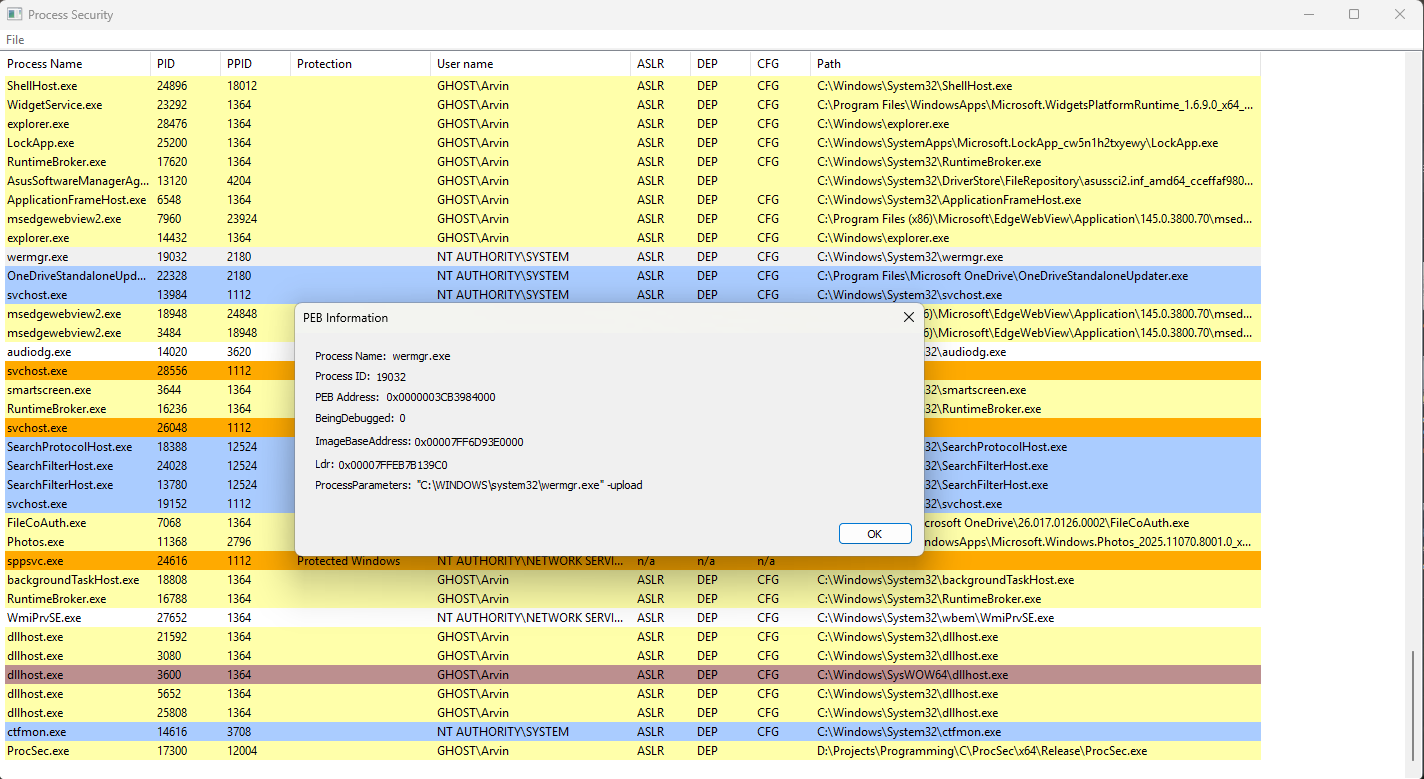
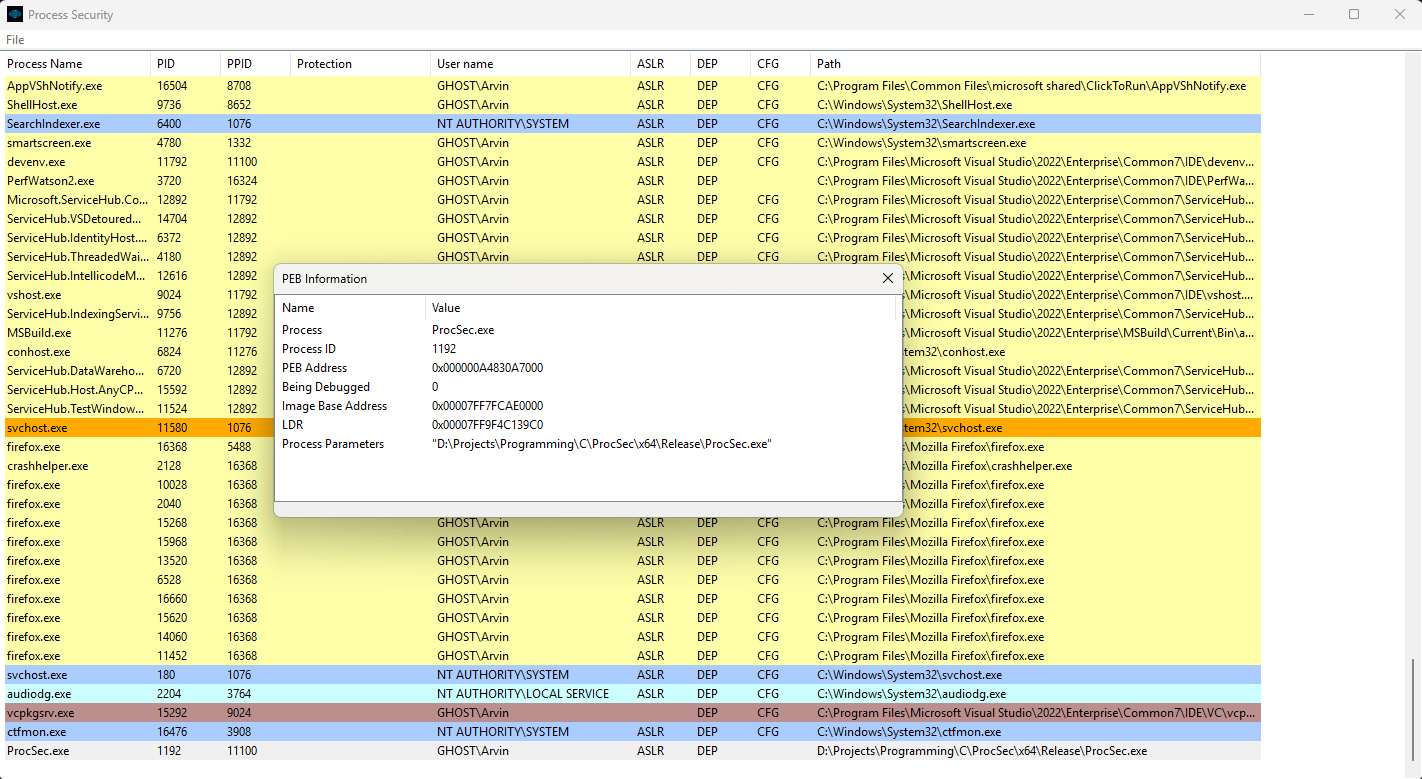
Convert PEB dialog to list view

diff --git a/ProcSec/main.cpp b/ProcSec/main.cpp
@@ -201,22 +201,47 @@ INT_PTR CALLBACK PEBDialog(HWND hDlg, UINT message, WPARAM wParam, LPARAM lParam
 	switch (message)
 	{
 	case WM_INITDIALOG: {
-		WCHAR pId[16] = { 0 }, pName[MAX_PATH] = { 0 };
 
+		/**********************************************************************************************/
+		// Initialize List View
+
+		RECT rc;
+		::GetClientRect(hDlg, &rc);
+		TabCtrl_AdjustRect(hDlg, FALSE, &rc);
+
+		::InitCommonControls();
+
+		HWND hPebDialog = ::CreateWindowExW(0, L"STATIC", L"", WS_CHILD | WS_VISIBLE,
+			rc.left, rc.top, rc.right - rc.left, rc.bottom - rc.top, hDlg, 0, g_hInst, 0);
+
+		HWND hTabListView = ::CreateWindowExW(WS_EX_CLIENTEDGE, WC_LISTVIEW, L"", WS_CHILD | WS_VISIBLE | LVS_REPORT,
+			0, 0, rc.right, rc.bottom - 15, hPebDialog, 0, 0, 0);
+
+		ListView_SetExtendedListViewStyle(hTabListView, LVS_EX_FULLROWSELECT | LVS_EX_DOUBLEBUFFER);
+
+		LVCOLUMNW col = { 0 };
+		col.mask = LVCF_TEXT | LVCF_WIDTH;
+
+		col.pszText = const_cast<LPWSTR>(L"Name");
+		col.cx = 150;
+		ListView_InsertColumn(hTabListView, TAB_LV_OPTIONAL_NAME, &col);
+
+		col.pszText = const_cast<LPWSTR>(L"Value");
+		col.cx = 470;
+		ListView_InsertColumn(hTabListView, TAB_LV_OPTIONAL_VALUE, &col);
+
+		/**********************************************************************************************/
+		// Get PEB Info
+
+		WCHAR pId[16] = { 0 }, pName[MAX_PATH] = { 0 };
 		int index = ListView_GetNextItem(g_hList, -1, LVNI_SELECTED);
 
 		ListView_GetItemText(g_hList, index, LV_PID, pId, sizeof(pId));
 		ListView_GetItemText(g_hList, index, LV_PNAME, pName, sizeof(pName));
 
-		GetPebInfo(hDlg, pId, pName);
-
-		break;
+		GetPebInfo(hTabListView, pId, pName);
 	}
-
-	case WM_COMMAND:
-		if (LOWORD(wParam) == IDOK)
-			::EndDialog(hDlg, 0);
-		break;
+	break;
 
 	case WM_CLOSE:
 		::EndDialog(hDlg, 0);
@@ -232,7 +257,7 @@ INT_PTR CALLBACK PEDialog(HWND hDlg, UINT message, WPARAM wParam, LPARAM lParam)
 	switch (message)
 	{
 	case WM_INITDIALOG: {
-		g_hTab= ::GetDlgItem(hDlg, IDC_TAB_PE);
+		g_hTab = ::GetDlgItem(hDlg, IDC_TAB_PE);
 		TCITEMW ti = { 0 };
 		ti.mask = TCIF_TEXT;
 

diff --git a/ProcSec/PEBInformation.cpp b/ProcSec/PEBInformation.cpp
@@ -30,13 +30,47 @@ BOOL GetPebInfo(HWND hDlg, LPWSTR pID, LPWSTR pName)
 		::wsprintfW(pImageBase, L"0x%p", peb.ImageBaseAddress);
 		::wsprintfW(pLdr, L"0x%p", peb.Ldr);
 
-		::SetDlgItemTextW(hDlg, IDC_STATIC_PEB_PNAME, pName);
-		::SetDlgItemTextW(hDlg, IDC_STATIC_PEB_PID, pID);
-		::SetDlgItemTextW(hDlg, IDC_STATIC_PEB, pPEB);
-		::SetDlgItemTextW(hDlg, IDC_STATIC_BEINGDEBUGGED, bBeingDebugged);
-		::SetDlgItemTextW(hDlg, IDC_STATIC_IMAGEBASE, pImageBase);
-		::SetDlgItemTextW(hDlg, IDC_STATIC_LDR, pLdr);
-		::SetDlgItemTextW(hDlg, IDC_STATIC_PARAMETER, pProcessParameter);
+		INT index = 0;
+		WCHAR value[64] = { 0 };
+
+		// SetItem
+		LVITEMW item = { 0 };
+		item.mask = LVIF_TEXT;
+
+		item.iItem = index;
+		item.pszText = const_cast<LPWSTR>(L"Process");
+		ListView_InsertItem(hDlg, &item);
+		ListView_SetItemText(hDlg, index++, 1, const_cast<LPWSTR>(pName));
+
+		item.iItem = index;
+		item.pszText = const_cast<LPWSTR>(L"Process ID");
+		ListView_InsertItem(hDlg, &item);
+		ListView_SetItemText(hDlg, index++, 1, const_cast<LPWSTR>(pID));
+
+		item.iItem = index;
+		item.pszText = const_cast<LPWSTR>(L"PEB Address");
+		ListView_InsertItem(hDlg, &item);
+		ListView_SetItemText(hDlg, index++, 1, const_cast<LPWSTR>(pPEB));
+
+		item.iItem = index;
+		item.pszText = const_cast<LPWSTR>(L"Being Debugged");
+		ListView_InsertItem(hDlg, &item);
+		ListView_SetItemText(hDlg, index++, 1, const_cast<LPWSTR>(bBeingDebugged));
+
+		item.iItem = index;
+		item.pszText = const_cast<LPWSTR>(L"Image Base Address");
+		ListView_InsertItem(hDlg, &item);
+		ListView_SetItemText(hDlg, index++, 1, const_cast<LPWSTR>(pImageBase));
+
+		item.iItem = index;
+		item.pszText = const_cast<LPWSTR>(L"LDR");
+		ListView_InsertItem(hDlg, &item);
+		ListView_SetItemText(hDlg, index++, 1, const_cast<LPWSTR>(pLdr));
+
+		item.iItem = index;
+		item.pszText = const_cast<LPWSTR>(L"Process Parameters");
+		ListView_InsertItem(hDlg, &item);
+		ListView_SetItemText(hDlg, index++, 1, const_cast<LPWSTR>(pProcessParameter));
 
 		SecureCloseHandle(hProcess);
 		return TRUE;

diff --git a/ProcSec/resource.h b/ProcSec/resource.h
@@ -15,6 +15,7 @@
 #define IDC_STATIC_NTGLOBAL             1007
 #define IDC_STATIC_PEB_PNAME            1008
 #define IDC_STATIC_PEB_PID              1009
+#define IDC_LIST1                       1010
 #define ID_FILE                         40002
 #define ID_FILE_ABOUT                   40019
 #define ID_FILE_RELOAD                  40020
@@ -23,9 +24,9 @@
 // 
 #ifdef APSTUDIO_INVOKED
 #ifndef APSTUDIO_READONLY_SYMBOLS
-#define _APS_NEXT_RESOURCE_VALUE        117
+#define _APS_NEXT_RESOURCE_VALUE        119
 #define _APS_NEXT_COMMAND_VALUE         40021
-#define _APS_NEXT_CONTROL_VALUE         1007
+#define _APS_NEXT_CONTROL_VALUE         1011
 #define _APS_NEXT_SYMED_VALUE           101
 #endif
 #endif
